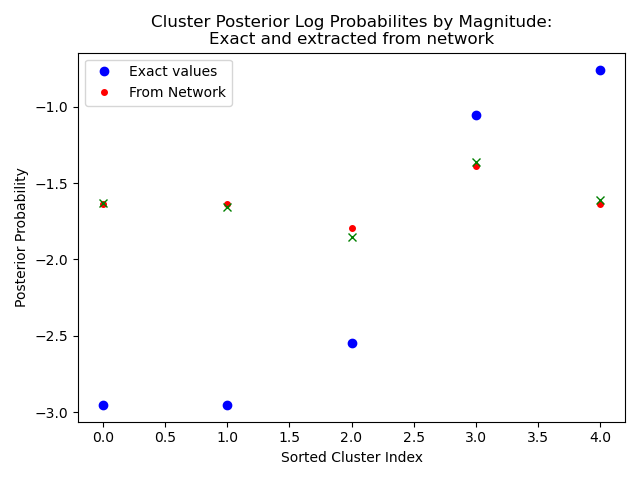
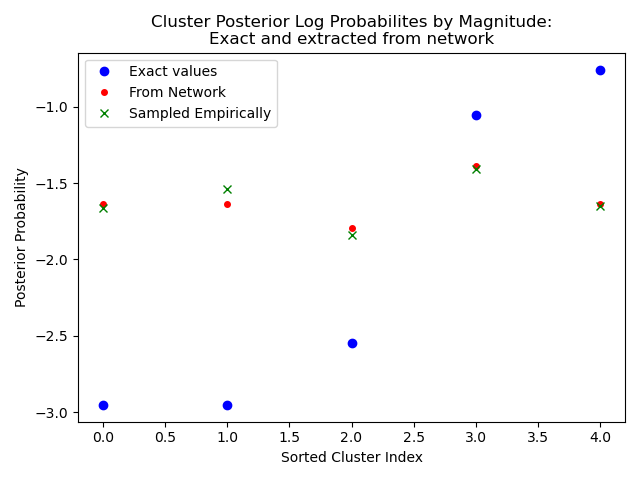
Bopm

diff --git a/GraphClustering/Network/Full_Distribution.py b/GraphClustering/Network/Full_Distribution.py
@@ -174,7 +174,7 @@ if __name__ == '__main__':
 
     net = GraphNet(n_nodes=adjacency_matrix.size()[0], a = a, b = b, alpha = alpha)
     X = net.sample_forward(adjacency_matrix=A_random, epochs=100)
-    net.train(X, epochs=100) # This is the time consuming part. 
+    net.train(X, epochs=1000) # This is the time consuming part. 
     
     exact = True
     if exact:
